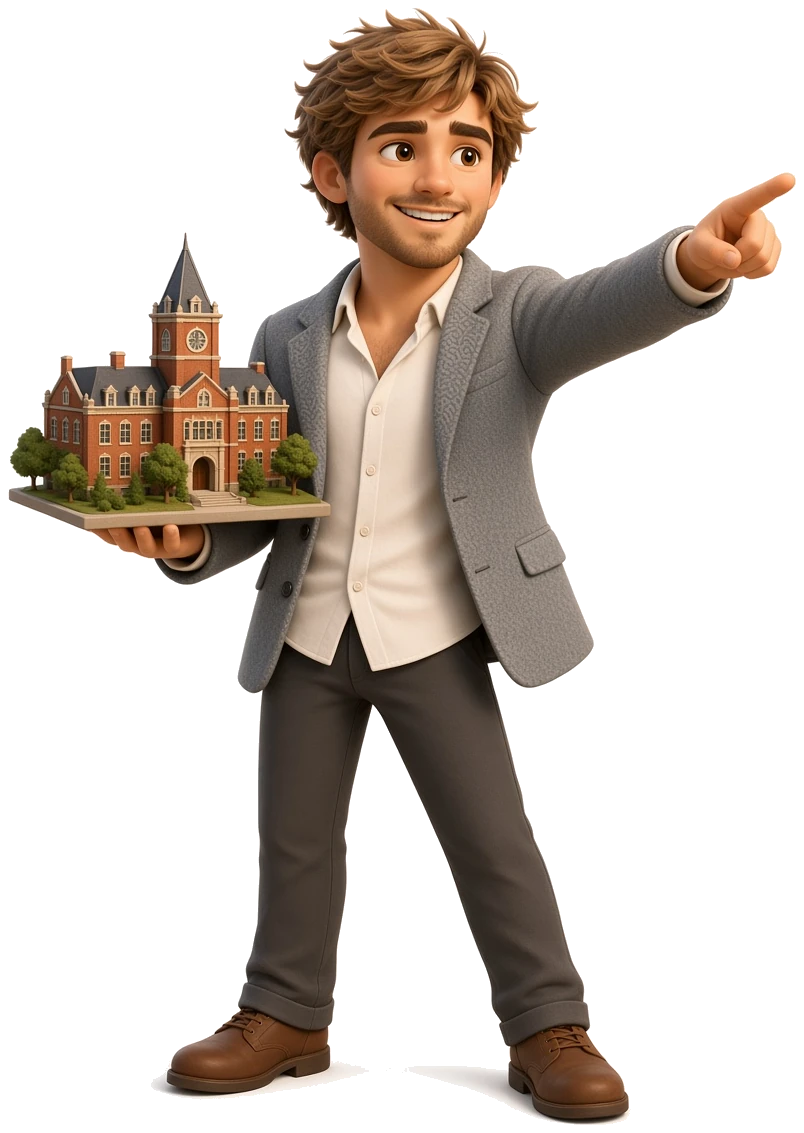
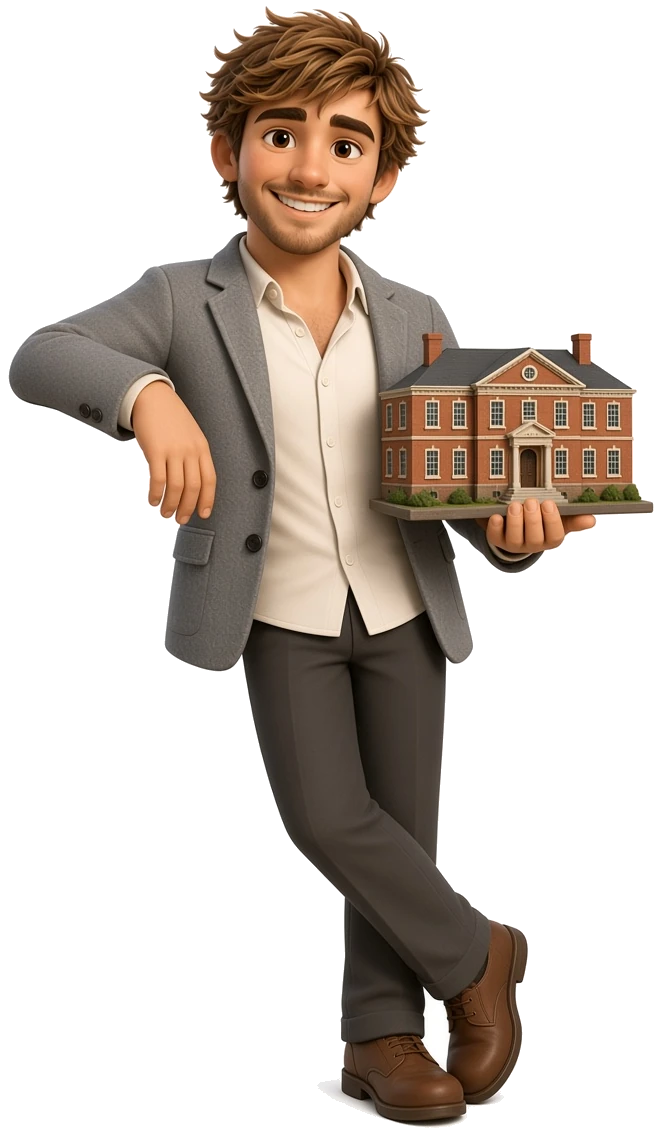
Scatter fold cartoons around the Show pill (#49)
Each section’s Pixar figure now sits in a different spot around Show/Hide: beside, sitting on top, peeking from behind, climbing on, bending over, or leaning on the button.

diff --git a/src/portfolio/portfolio.css b/src/portfolio/portfolio.css
@@ -226,9 +226,9 @@
     border: 0;
 }
 
-/* Pixar-style figures sit in a cluster with Show/Hide — same slot on
-   every card, never a corner dog-ear. Decorative (aria-hidden). Track
-   Record and Contact keep the figure on the expanded eyebrow row. */
+/* Pixar-style figures cluster with Show/Hide — each in a different
+   spot around the pill (beside, on top, behind, bending over). Never
+   a corner dog-ear. Decorative (aria-hidden). */
 .pm-fold.has-cue {
     overflow: visible;
 }
@@ -239,6 +239,8 @@
     align-items: center;
     gap: 0;
     align-self: center;
+    position: relative;
+    overflow: visible;
 }
 
 .pm-fold-cue {
@@ -253,7 +255,7 @@
     width: 52px;
     height: 68px;
     object-fit: contain;
-    object-position: right bottom;
+    object-position: center bottom;
     display: block;
     filter: drop-shadow(0 3px 6px rgba(11, 14, 20, 0.16));
     transform-origin: 50% 100%;
@@ -267,6 +269,117 @@
 @keyframes pm-cue-bob {
     0%, 100% { transform: translateY(0); }
     50% { transform: translateY(-2px); }
+}
+
+/* Standing just left of the pill, pointing at it. */
+.pm-fold-cue--beside {
+    position: relative;
+    z-index: 3;
+}
+
+/* Sitting on top of the pill, feet just overlapping the rim. */
+.pm-fold-cue--atop {
+    position: absolute;
+    left: 50%;
+    bottom: calc(100% - 6px);
+    transform: translateX(-50%);
+    z-index: 3;
+}
+.pm-fold-cue--atop .pm-cue-img {
+    width: 46px;
+    height: 60px;
+}
+
+/* Peeking from behind the left edge of the pill. */
+.pm-fold-cue--peek {
+    position: absolute;
+    right: 54px;
+    bottom: -10px;
+    z-index: 0;
+}
+.pm-fold-cue--peek .pm-cue-img {
+    width: 48px;
+    height: 64px;
+}
+
+/* Popping up from behind the pill. */
+.pm-fold-cue--pop {
+    position: absolute;
+    left: 50%;
+    bottom: 6px;
+    transform: translateX(-50%);
+    z-index: 0;
+}
+.pm-fold-cue--pop .pm-cue-img {
+    width: 56px;
+    height: 64px;
+}
+
+/* Bending over the pill from the left, not covering the label. */
+.pm-fold-cue--bend {
+    position: absolute;
+    right: auto;
+    left: -40px;
+    bottom: -4px;
+    z-index: 3;
+}
+.pm-fold-cue--bend .pm-cue-img {
+    width: 50px;
+    height: 64px;
+}
+
+/* Climbing onto the left rim of the pill. */
+.pm-fold-cue--climb {
+    position: absolute;
+    right: auto;
+    left: -34px;
+    bottom: -2px;
+    z-index: 3;
+}
+.pm-fold-cue--climb .pm-cue-img {
+    width: 54px;
+    height: 70px;
+}
+
+/* Leaning on the pill from the left. */
+.pm-fold-cue--lean {
+    position: absolute;
+    right: auto;
+    left: -38px;
+    bottom: -8px;
+    z-index: 3;
+}
+
+/* Draped over the left of the pill. */
+.pm-fold-cue--drape {
+    position: absolute;
+    right: auto;
+    left: -36px;
+    bottom: -10px;
+    z-index: 3;
+}
+.pm-fold-cue--drape .pm-cue-img {
+    width: 50px;
+    height: 66px;
+}
+
+/* Peeking from the right side of the pill. */
+.pm-fold-cue--peek-right {
+    position: absolute;
+    left: auto;
+    right: -22px;
+    bottom: -8px;
+    z-index: 3;
+}
+.pm-fold-cue--peek-right .pm-cue-img {
+    width: 44px;
+    height: 62px;
+}
+
+.pm-fold.has-cue--read,
+.pm-fold.has-cue--track,
+.pm-fold.has-cue--bulb {
+    padding-top: 22px;
 }
 
 /* Expanded: slim eyebrow-row control, original headings do the reading. */
@@ -367,6 +480,12 @@
     .pm-fold.is-open .pm-cue-img {
         width: 36px;
         height: 48px;
+    }
+    .pm-fold-cue--peek-right {
+        right: -6px;
+    }
+    .pm-fold-cue--atop {
+        bottom: calc(100% - 10px);
     }
 }
 

diff --git a/src/portfolio/FoldCue.jsx b/src/portfolio/FoldCue.jsx
@@ -1,8 +1,9 @@
 import React from 'react';
 
 /* One Pixar-style figure per section — the portfolio portrait as 3D
-   clay, pose/prop matching the section. Glued to Show/Hide, pointing
-   at the pill. Track Record and Contact keep theirs while expanded. */
+   clay, pose/prop matching the section. Clustered with Show/Hide, each
+   in a different spot around the pill. Track Record and Contact keep
+   theirs while expanded. */
 const POSE = {
     work: 'track',
     projects: 'execute',
@@ -31,6 +32,21 @@ const SRC = {
     coffee: '/assets/cues/coffee.webp'
 };
 
+/* How the figure sits around the Show/Hide pill. */
+const PLACE = {
+    execute: 'beside',
+    stairs: 'climb',
+    knot: 'peek',
+    read: 'atop',
+    wrench: 'bend',
+    proto: 'peek-right',
+    campus: 'lean',
+    bulb: 'pop',
+    speak: 'drape',
+    track: 'atop',
+    coffee: 'bend'
+};
+
 const OPEN_CUES = new Set(['work', 'contact']);
 
 export function cueVariant(sectionId, { open = false } = {}) {
@@ -40,8 +56,9 @@ export function cueVariant(sectionId, { open = false } = {}) {
 
 const FoldCue = ({ variant }) => {
     const src = SRC[variant] || SRC.execute;
+    const place = PLACE[variant] || 'beside';
     return (
-        <span className={`pm-fold-cue pm-fold-cue--figure pm-fold-cue--${variant}`} aria-hidden="true">
+        <span className={`pm-fold-cue pm-fold-cue--figure pm-fold-cue--${variant} pm-fold-cue--${place}`} aria-hidden="true">
             <img className="pm-cue-img" src={src} alt="" width="48" height="64" draggable="false" />
         </span>
     );
